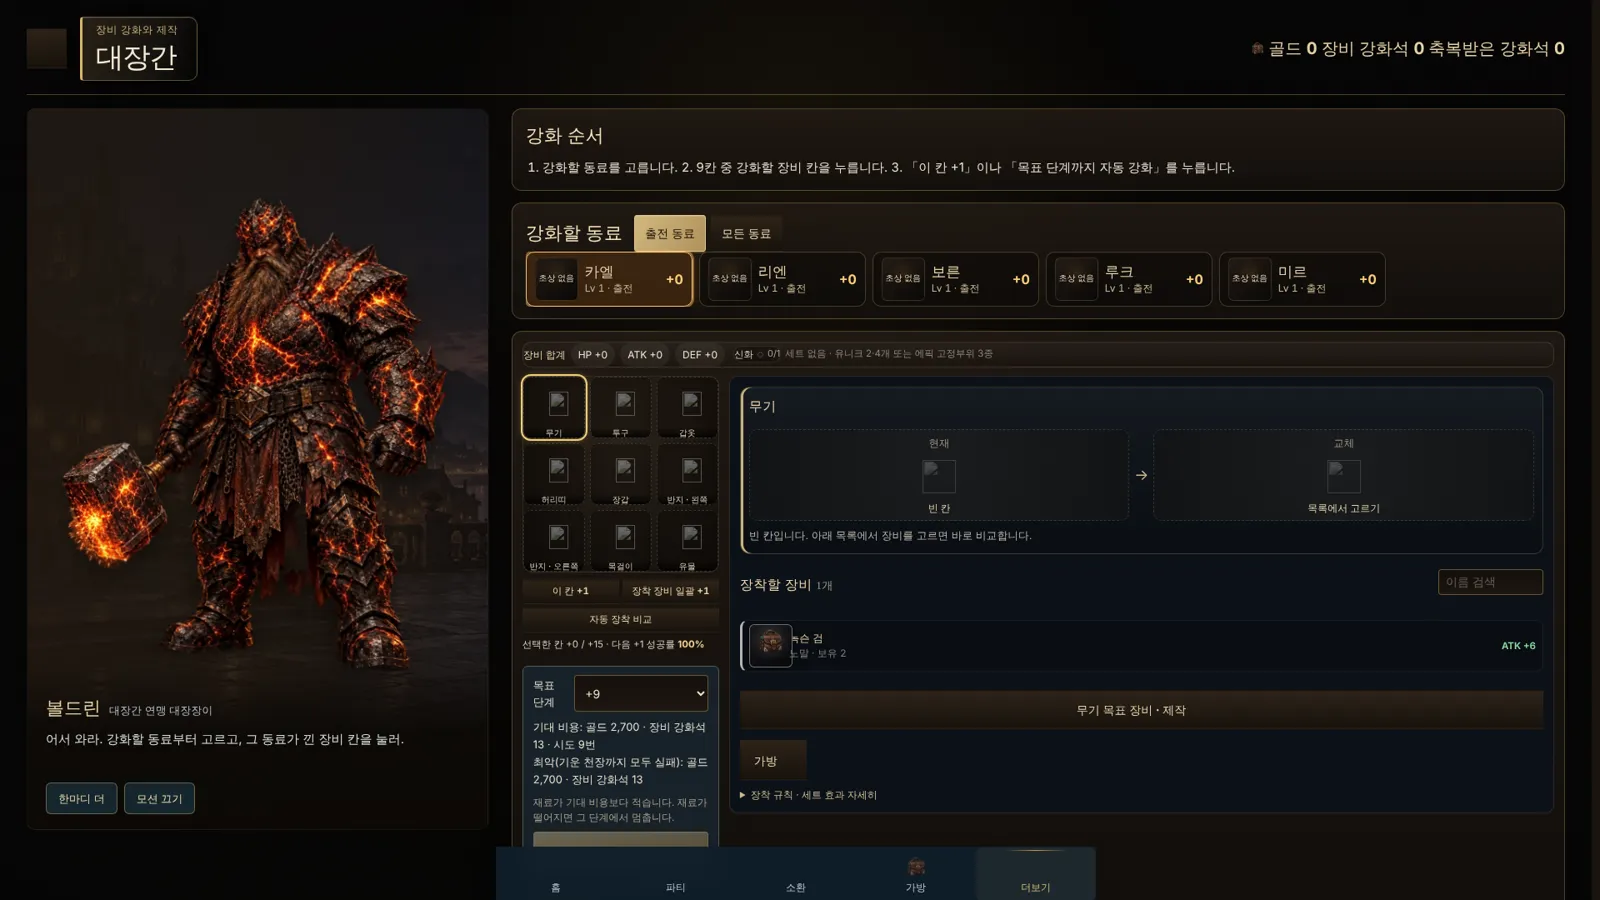
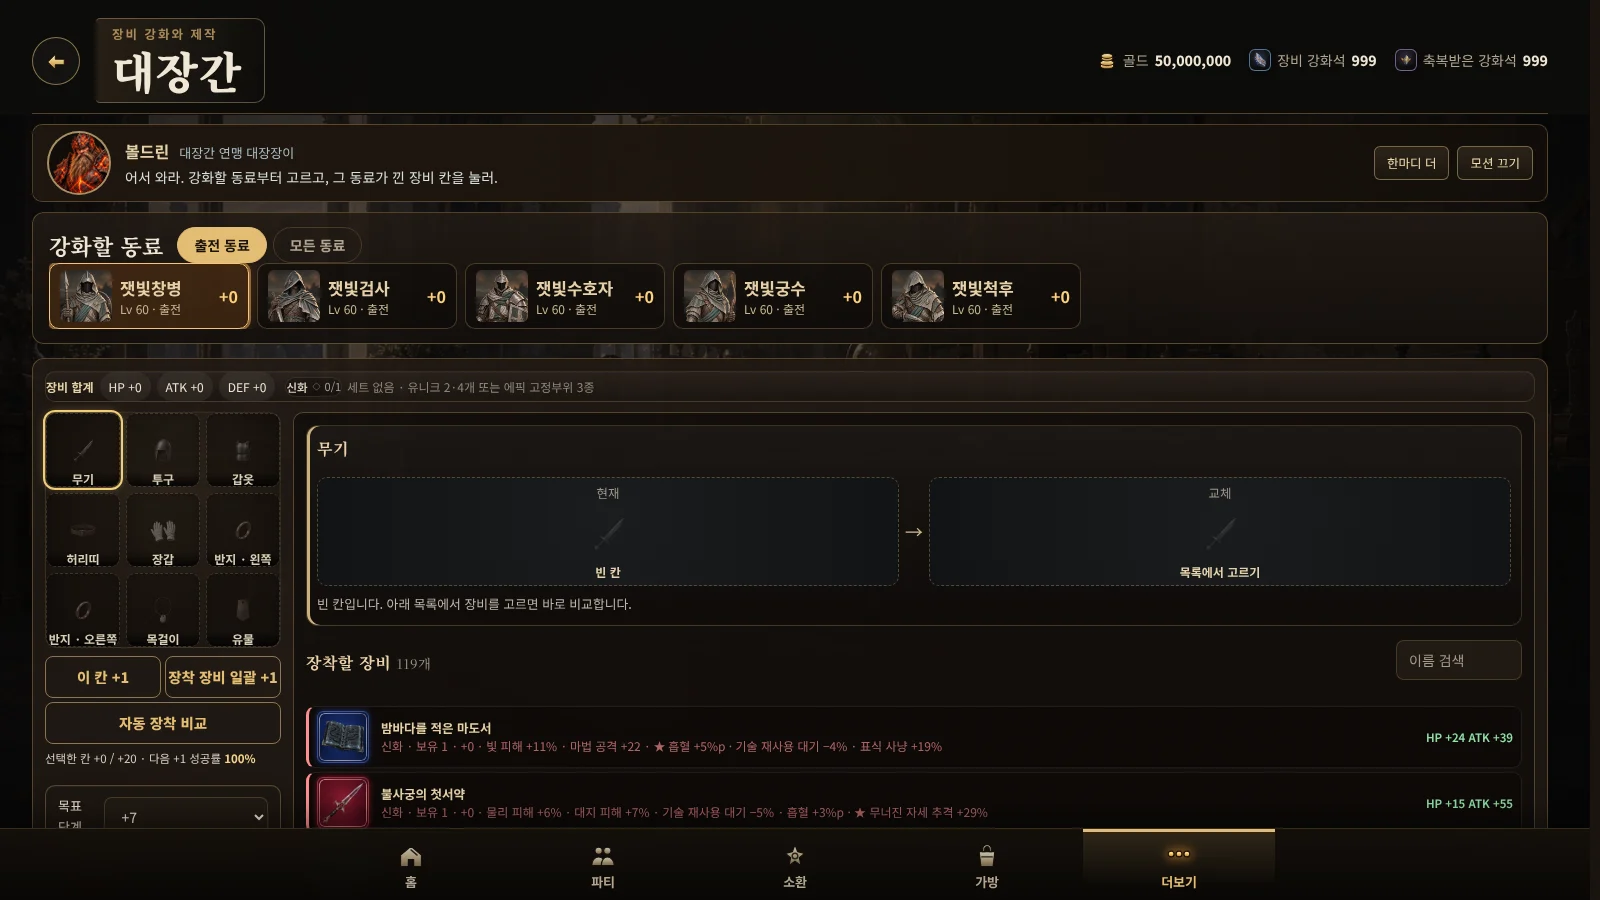
Use new UI captures for lobby, summon and forge
Claude-Session: https://claude.ai/code/session_01TPGdk7YcpomyfjPqxyNjTx

diff --git a/index.html b/index.html
@@ -308,7 +308,7 @@ footer .wrap{display:flex;flex-wrap:wrap;gap:8px 24px;justify-content:space-betw
     </div>
     <div class="split rev">
       <figure>
-        <img class="shot" src="img/lobby.webp" alt="로비 화면: 요일 던전, 주간 보스, 결전 레이드, 유물 던전, 투기장 메뉴" loading="lazy" width="1600" height="900">
+        <img class="shot" src="img/lobby.webp" alt="로비 화면: 안내인 미라와 다음 여정, 요일 던전, 주간 보스, 결전 레이드, 유물 던전, 투기장 메뉴" loading="lazy" width="1600" height="900">
         <figcaption><span lang="ko">로비에서 오늘 갈 곳을 고릅니다.</span><span lang="en">Pick today's hunt from the lobby.</span></figcaption>
       </figure>
       <ul class="modes">
@@ -352,7 +352,7 @@ footer .wrap{display:flex;flex-wrap:wrap;gap:8px 24px;justify-content:space-betw
     </div>
     <div class="split">
       <figure>
-        <img class="shot" src="img/forge.webp" alt="대장간 화면: 대장장이 볼드린과 강화 메뉴" loading="lazy" width="1600" height="900">
+        <img class="shot" src="img/forge.webp" alt="대장간 화면: 대장장이 볼드린, 강화할 동료와 장비 칸, 신화 장비 목록" loading="lazy" width="1600" height="900">
         <figcaption><span lang="ko">대장간. 대장장이 볼드린이 강화와 신화 조합을 맡아 줍니다.</span><span lang="en">The forge, where Boldrin enhances gear and crafts Mythics.</span></figcaption>
       </figure>
       <div class="loot-side">
